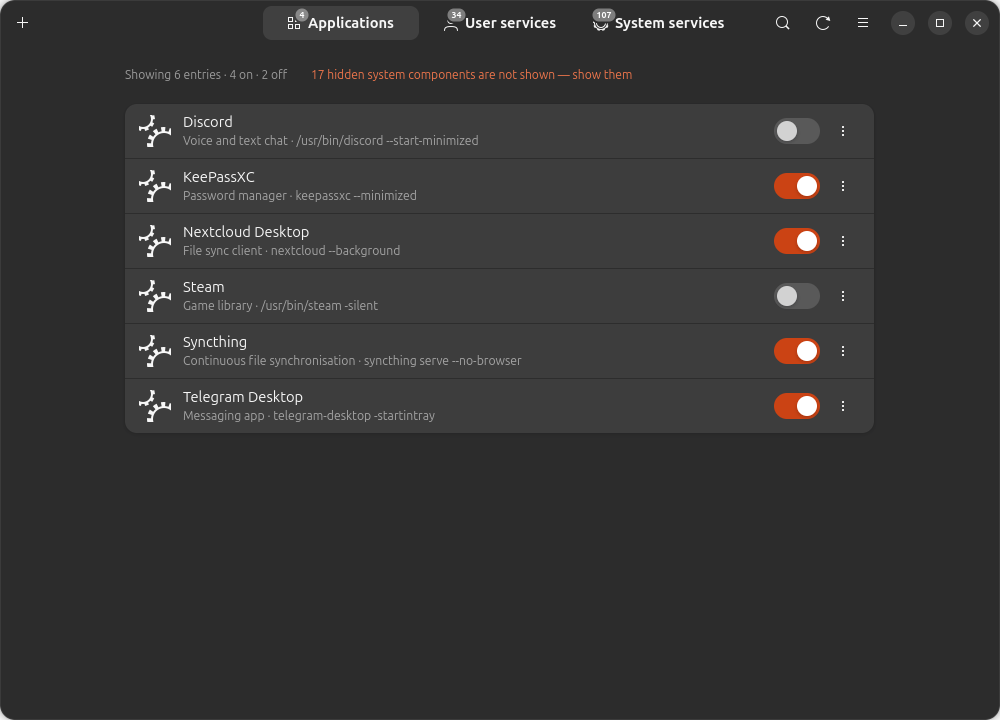
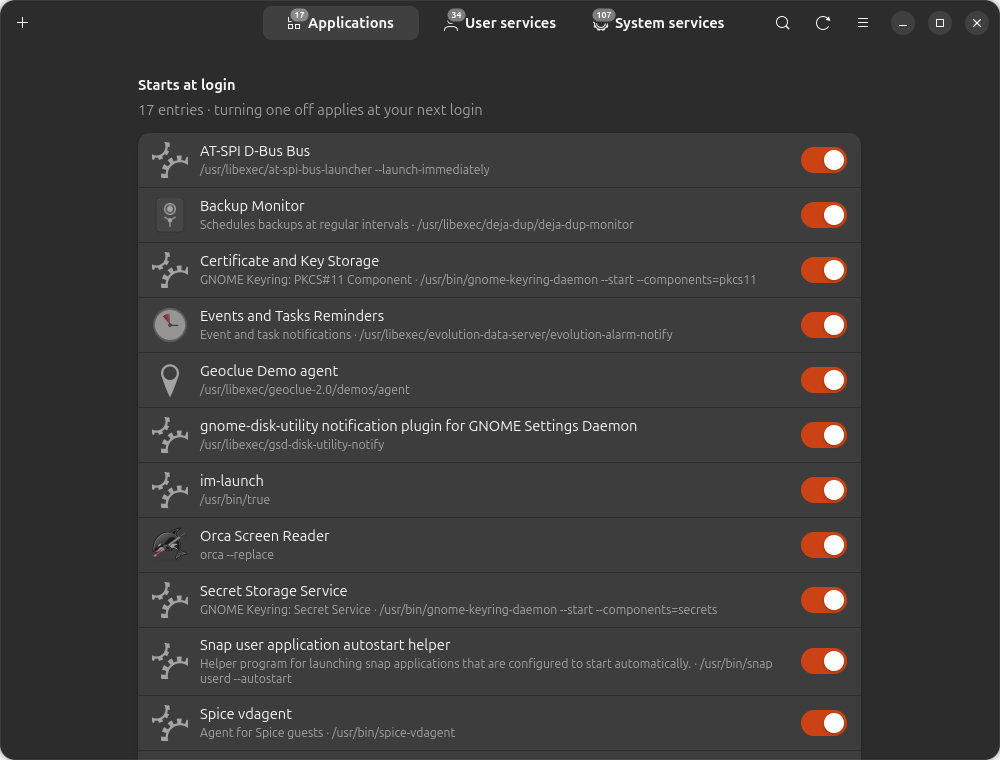
Reshoot the screenshots and bring the README up to date
The screenshots still showed the old flat list with a per-row menu. They
are retaken from the current interface, in English, with the hidden
background components revealed so the list is representative.

The README text follows: a feature line for the grouped list and the
state labels, a note that the "applies at your next login" sentence now
comes from the heading above the list rather than a banner, a paragraph
under How it works for the Flatpak background permission, and the three
modules added since the layout tree was written.

diff --git a/README.tr.md b/README.tr.md
@@ -46,9 +46,11 @@ birini kapatmanızı sağlar.
 
 - **Tek pencere, üç kaynak.** Autostart girdileri, kullanıcı servisleri ve
   sistem servisleri; her biri kendi sekmesinde, canlı sayaçla.
-- **Gerçekte ne çalıştırdığını söyler.** Her satır asıl komut satırını ve
-  girdinin yalnızca etkin olup olmadığını değil, *şu anda* çalışıp
-  çalışmadığını gösterir.
+- **Liste ilk sorunuzu yanıtlar.** Girdiler açılışta başlayanlar ve
+  kapattıklarınız diye gruplanır; her satır küçük bir etiket taşır —
+  çalışıyor, kritik ya da anahtar kullanılamıyorsa birimin durumu.
+- **Gerçekte ne çalıştırdığını söyler.** Her satır girdiye verilmiş adı
+  değil, arkasındaki asıl komut satırını gösterir.
 - **Bir şeyi bozmadan önce uyarır.** Oturumunuzun bağlı olduğu girdiler
   işaretlidir; hangi anahtarın iki kez düşünmeyi hak ettiğini bilirsiniz.
 - **Hiçbir şeyi yok etmez.** Bir sistem girdisini kapatmak kişisel bir
@@ -162,6 +164,13 @@ dokunmaz — girdiyi `~/.config/autostart` içine kopyalar ve kopyayı kapatır;
 bu, bir sistem varsayılanını geçersiz kılmanın standart yoludur. Tekrar
 açtığınızda kopya silinir ve sistem varsayılanı yeniden geçerli olur.
 
+**Flatpak uygulamaları.** Bu uygulamaların autostart girdisi
+`xdg-desktop-portal`'a aittir ve arkasındaki karar portalın izin deposunda
+durur. Liftoff hem dosyayı yazar *hem de* arka plan iznini
+`flatpak permission-set` ile geri alır — GNOME Ayarlar'ın değiştirdiği
+kaydın aynısı. Bu ikinci adım olmadan uygulama bir dahaki çalışmasında
+girdiyi yeniden yazdırır.
+
 **Servisler.** Liftoff `systemctl enable` ve `systemctl disable` komutlarını
 çağırır; uçbirimde sizin yapacağınızın aynısı. Sistem geneli birimler önce
 `pkexec` aracılığıyla parolanızı sorar.
@@ -174,7 +183,7 @@ alabilirsiniz.
 
 Bir girdiyi kapatmak hâlihazırda **çalışanı durdurmaz**. Autostart
 uygulamaları ve servisler girişte başlatıldığı için değişiklik bir sonraki
-oturum açışınızda geçerli olur; Liftoff bunu pencerenin üstünde yazar.
+oturum açışınızda geçerli olur; listenin üstündeki başlık bunu söyler.
 Kapattığınız zamanlayıcı ve soketler hemen kurulmayı bırakır, ama çalışan
 bir servis kendi duruncaya ya da siz durduruncaya kadar çalışmayı sürdürür.
 
@@ -215,7 +224,10 @@ liftoff/
 ├─ ui.py             GTK4 / libadwaita arayüzü
 ├─ xdg_autostart.py  .desktop autostart girdileri
 ├─ systemd.py        kullanıcı ve sistem birimleri
+├─ portal.py         Flatpak arka plan izinleri
 ├─ desktop.py        .desktop okuyucu ve yazıcı
+├─ icons.py          her girdinin kendi simgesini bulur
+├─ apps.py           kurulu uygulamalar, seçici için
 ├─ i18n.py           İngilizce ve Türkçe metinler
 ├─ settings.py       saklanan tercihler
 ├─ host.py           kumlandığında ana makineye erişim

diff --git a/README.md b/README.md
@@ -45,9 +45,12 @@ without learning three different tools.
 
 - **One window, three sources.** Autostart entries, user services and system
   services, each in its own tab with a live count.
-- **Tells you what it actually runs.** Every row shows the real command line
-  and whether the entry is running *right now*, not just whether it is
-  enabled.
+- **The list answers the first question.** Entries are grouped into what
+  starts at login and what you have switched off, and each row carries a
+  small label — running, critical, or the unit state when the switch cannot
+  be used.
+- **Tells you what it actually runs.** Every row shows the real command
+  line behind the entry, not just the name someone gave it.
 - **Warns before you break something.** Entries your session depends on are
   marked, so you know which switch deserves a second thought.
 - **Never destroys anything.** Turning off a system entry writes a personal
@@ -160,6 +163,13 @@ system file at all — it copies the entry into `~/.config/autostart` and
 disables the copy, which is the standard way to override a system default.
 Turning it back on deletes the copy, and the system default applies again.
 
+**Flatpak applications.** Their autostart entry belongs to
+`xdg-desktop-portal`, and the decision behind it lives in the portal's
+permission store. Liftoff writes the file *and* withdraws the background
+permission with `flatpak permission-set`, the same record GNOME Settings
+changes. Without that second step the application has the entry written
+again the next time it runs.
+
 **Services.** Liftoff calls `systemctl enable` and `systemctl disable`,
 exactly as you would in a terminal. System-wide units ask for your password
 through `pkexec` first.
@@ -171,7 +181,7 @@ file you can inspect, and a change you can undo from the same switch.
 
 Switching an entry off does **not** stop what is already running. Autostart
 applications and services are started at login, so the change applies at
-your next login — Liftoff says so at the top of the window. Timers and
+your next login, which the heading above the list says. Timers and
 sockets you disable stop arming immediately, but a running service keeps
 running until it stops on its own or you stop it.
 
@@ -211,7 +221,10 @@ liftoff/
 ├─ ui.py             GTK4 / libadwaita interface
 ├─ xdg_autostart.py  .desktop autostart entries
 ├─ systemd.py        user and system units
+├─ portal.py         Flatpak background permissions
 ├─ desktop.py        .desktop reader and writer
+├─ icons.py          finds each entry's own icon
+├─ apps.py           installed applications, for the picker
 ├─ i18n.py           English and Turkish strings
 ├─ settings.py       stored preferences
 ├─ host.py           host access when sandboxed
